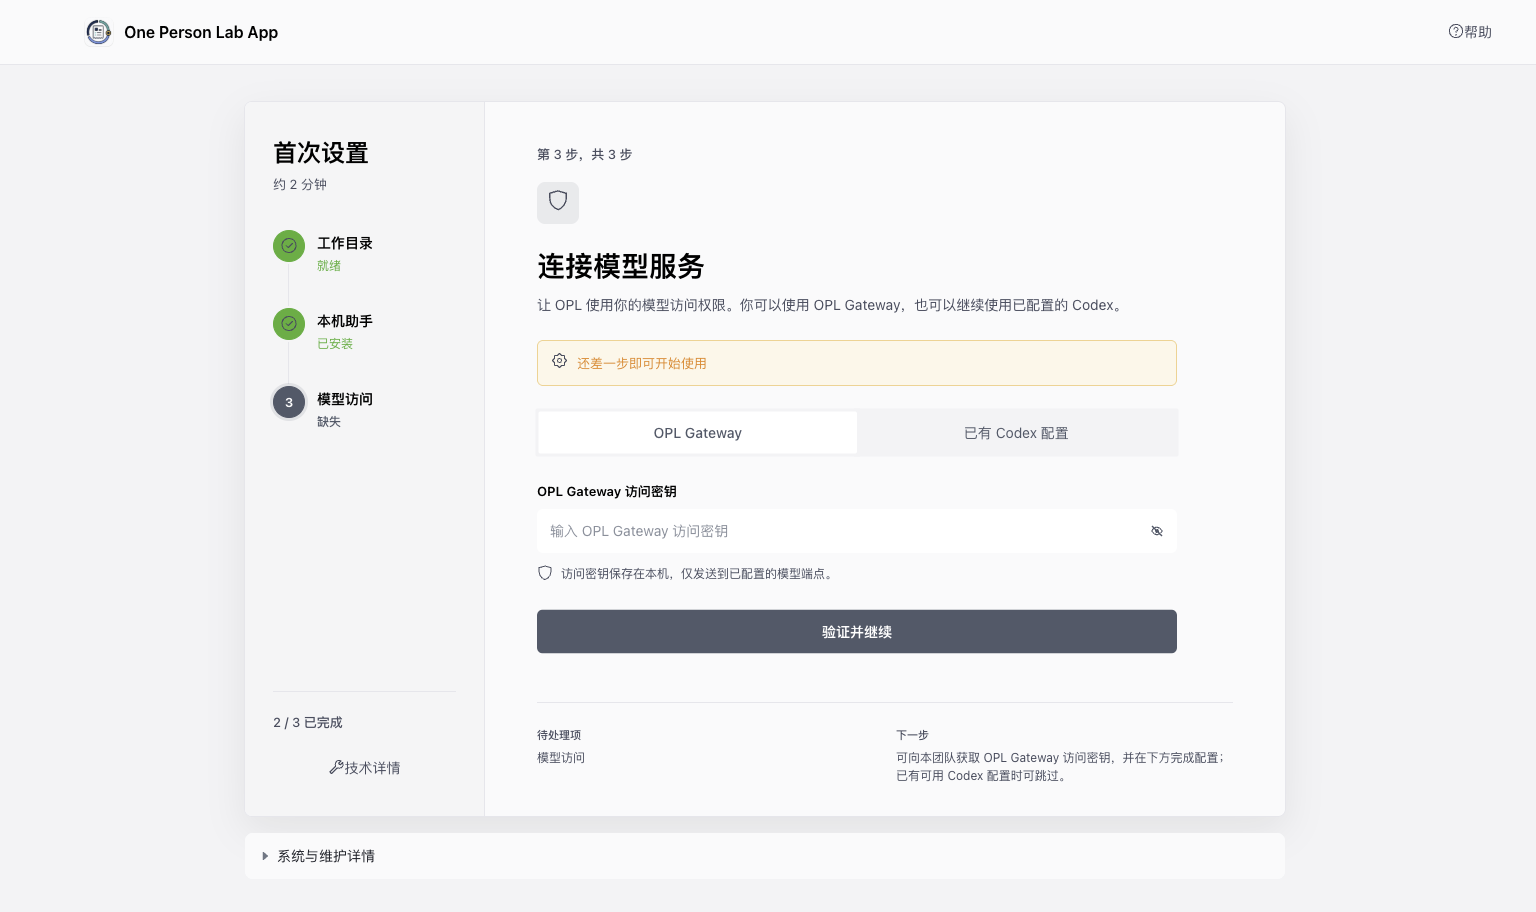
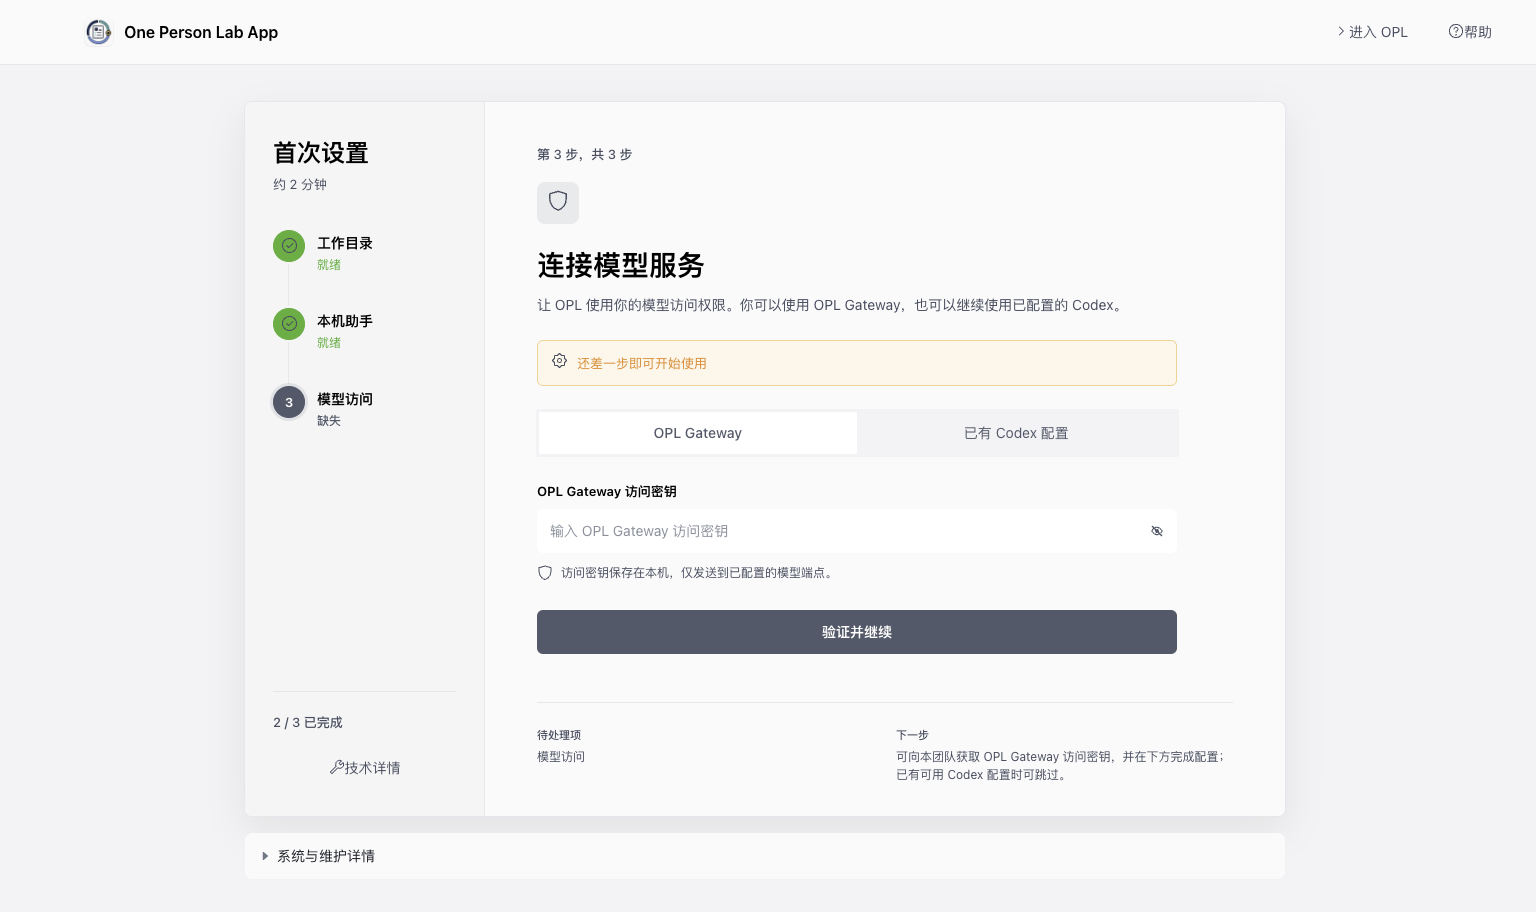
feat(first-run): make setup nonblocking

diff --git a/scripts/validate-active-shell/page-state-matrix-validator.ts b/scripts/validate-active-shell/page-state-matrix-validator.ts
@@ -74,8 +74,12 @@ export function validatePageStateMatrix(matrix, contract, guiProductContract) {
   if (!firstLaunchPage) {
     throw new Error('Page-state matrix is missing first_launch_readiness page');
   }
-  if (firstLaunchPage.launch_gate?.id !== 'ready_to_launch' || firstLaunchPage.launch_gate?.ui_order !== 'before_guid') {
-    throw new Error('First-launch readiness page must gate ready_to_launch before /guid');
+  if (
+    firstLaunchPage.launch_gate?.id !== 'ready_to_launch' ||
+    firstLaunchPage.launch_gate?.ui_order !== 'before_first_conversation_not_before_guid' ||
+    firstLaunchPage.launch_gate?.guid_navigation_blocking !== false
+  ) {
+    throw new Error('First-launch readiness page must gate first conversation without blocking /guid navigation');
   }
   if (firstLaunchPage.launch_gate?.full_readiness_blocks_ready_to_launch !== false) {
     throw new Error('First-launch readiness page must keep full readiness non-blocking for ready_to_launch');
@@ -114,7 +118,7 @@ export function validatePageStateMatrix(matrix, contract, guiProductContract) {
     'workspace root readiness',
     'Codex CLI readiness',
     'Codex model access readiness',
-    'ready_to_launch before /guid',
+    'ready_to_launch before first conversation, not before /guid',
     'full readiness and background maintenance state',
     'current initialization phase',
     'Core completed and total count',
@@ -127,7 +131,8 @@ export function validatePageStateMatrix(matrix, contract, guiProductContract) {
     'fixed three-step rail with one current task panel',
     'active rail step and task panel stay aligned to the first unready Core item',
     'authenticated standalone first-run route outside the ordinary product layout',
-    'startup preflight escape into first-run while readiness is unknown',
+    'startup preflight escape into /guid while readiness is unknown without mutating readiness',
+    'explicit enter OPL action before readiness without mutating readiness',
     'functional OPL Gateway and existing Codex access choices',
     'model access method switching and alternate actions disabled while a request is active',
     'pending state without premature ready or no-blocker claims',
@@ -153,7 +158,7 @@ export function validatePageStateMatrix(matrix, contract, guiProductContract) {
     'background maintenance counters or labels in the beginner primary area',
     'ordinary product navigation before the user enters /guid',
     'focusable or screen-reader-visible ordinary shell before the user enters /guid',
-    'startup preflight skip to /guid while readiness is unknown',
+    'navigation to /guid mutating or synthesizing ready_to_launch',
     'ordinary shortcut, tray, deep-link, or notification navigation mounted during first-run',
     'percentage progress as the dominant first-run signal',
     'simultaneous competing primary actions',

diff --git a/scripts/validate-active-shell/shell-first-run-validator.ts b/scripts/validate-active-shell/shell-first-run-validator.ts
@@ -43,10 +43,10 @@ export function validateFirstRunImplementation(shellPaths) {
   }
   const skipStartupCheck = startupGate.match(/const skipStartupCheck = \(\) => \{[\s\S]*?\n  \};/)?.[0] ?? '';
   if (
-    !skipStartupCheck.includes("navigate('/first-run', { replace: true })") ||
-    skipStartupCheck.includes("navigate('/guid'")
+    !skipStartupCheck.includes("navigate('/guid', { replace: true })") ||
+    skipStartupCheck.includes("navigate('/first-run'")
   ) {
-    throw new Error('Active shell StartupGate skip must enter FirstRun instead of bypassing unknown readiness');
+    throw new Error('Active shell StartupGate skip must enter /guid without mutating unknown readiness');
   }
   for (const expected of [
     'ipcBridge.oplRuntime.getInitialize.invoke()',
@@ -73,6 +73,15 @@ export function validateFirstRunImplementation(shellPaths) {
   if (firstRunPage.includes("ipcBridge.oplRuntime.getAppState.invoke({ profile: 'fast' })")) {
     throw new Error('Active shell FirstRun page must not auto-enter /guid from fast App state; use opl system initialize first-run setup_flow');
   }
+  const deferredEntry = firstRunPage.match(/\{!readyToLaunch && \([\s\S]*?data-testid='opl-first-run-enter-app'[\s\S]*?\)\}/)?.[0] ?? '';
+  if (
+    !deferredEntry.includes("onClick={() => navigate('/guid')}") ||
+    deferredEntry.includes('disabled=') ||
+    deferredEntry.includes('loading=') ||
+    deferredEntry.includes('POST_INSTALL_SELF_CHECK_STATE')
+  ) {
+    throw new Error('Active shell FirstRun must keep a pure, always-enabled /guid entry before readiness');
+  }
   for (const forbidden of [
     "shouldEnterGuidAutomatically",
     "navigate('/guid', { replace: true })",
@@ -81,7 +90,7 @@ export function validateFirstRunImplementation(shellPaths) {
   ]) {
     if (firstRunPage.includes(forbidden)) {
       throw new Error(
-        `Active shell FirstRun must remain in place until the user activates the ready entry: ${forbidden}`,
+        `Active shell FirstRun must not navigate automatically or bypass the explicit entry policies: ${forbidden}`,
       );
     }
   }
@@ -108,6 +117,13 @@ export function validateFirstRunImplementation(shellPaths) {
     if (!firstRunPage.includes(expected)) {
       throw new Error(`Active shell FirstRun focused task binding must include ${expected}`);
     }
+  }
+  const readyEntryButton = firstRunPage.match(/<Button\s+ref=\{readyEntryRef\}[\s\S]*?<\/Button>/)?.[0] ?? '';
+  if (
+    !readyEntryButton.includes("navigate('/guid', { state: POST_INSTALL_SELF_CHECK_STATE })") ||
+    readyEntryButton.includes('disabled=')
+  ) {
+    throw new Error('Active shell ready entry must stay enabled and preserve post-install self-check state');
   }
   for (const expected of [
     "setAttribute('inert', '')",

diff --git a/scripts/validate-active-shell/first-run-matrix-validator.ts b/scripts/validate-active-shell/first-run-matrix-validator.ts
@@ -48,8 +48,11 @@ function validateFullFirstInstallScenario(fullClean) {
   if (fullClean?.core_ready_source !== 'bundled_runtime') {
     throw new Error('Full first-install clean-machine scenario must reach Core ready from bundled_runtime');
   }
-  if (fullClean?.ready_to_launch_gate?.ui_order !== 'before_guid') {
-    throw new Error('Full first-install clean-machine scenario must gate ready_to_launch before /guid');
+  if (
+    fullClean?.ready_to_launch_gate?.ui_order !== 'before_first_conversation_not_before_guid' ||
+    fullClean?.ready_to_launch_gate?.guid_navigation_blocking !== false
+  ) {
+    throw new Error('Full first-install clean-machine scenario must gate first conversation without blocking /guid navigation');
   }
   if (fullClean?.ready_to_launch_gate?.blocks_on_full_readiness !== false) {
     throw new Error('Full first-install ready_to_launch must not block on full readiness');
@@ -184,14 +187,14 @@ export function validateFirstRunMatrix(matrix, contract) {
     'OPL Gateway access key entry uses beginner-facing 访问密钥 copy while existing usable Codex model access can skip first-launch Gateway setup',
     'first-run uses a focused full-window setup workspace and hides ordinary product navigation until the user enters /guid',
     'first-run renders as an authenticated standalone route outside the ordinary product layout',
-    'startup preflight skip enters focused first-run instead of /guid while readiness is unknown',
+    'startup preflight skip enters /guid while readiness is unknown without mutating readiness',
     'the three Core items render as a stable step rail while only the current task occupies the main panel',
     'the active rail step and task panel select the first unready Core item in fixed step order before completion',
     'Core progress uses completed step count without percentage progress',
     'model access offers functional OPL Gateway and existing Codex configuration paths without competing primary actions',
     'model access method switching and alternate actions remain disabled until the current request settles',
     'ready state replaces the current task in place and keeps one primary entry action',
-    'FirstRun never navigates automatically after initialize and only the ready entry action opens /guid',
+    'FirstRun never navigates automatically after initialize and explicit user entry can open /guid before or after readiness',
     'technical details stay inside FirstRun and do not expose ordinary Settings navigation',
     'all initialize, model access, and maintenance actions share one in-flight interaction lock',
     'initialize pending does not claim ready or no blockers before a payload returns',

diff --git a/scripts/app-product-profile/profile-contract.ts b/scripts/app-product-profile/profile-contract.ts
@@ -94,6 +94,12 @@ function assertFirstRunProfileShape(profile: AppProductProfile): void {
   assertStringArray(profile.first_run.readiness_layers, 'first_run.readiness_layers');
   assertStringArray(profile.first_run.ready_to_launch_gate.required_core_items, 'first_run.ready_to_launch_gate.required_core_items');
   assertStringArray(profile.first_run.ready_to_launch_gate.must_not_require, 'first_run.ready_to_launch_gate.must_not_require');
+  if (
+    profile.first_run.ready_to_launch_gate.ui_order !== 'before_first_conversation_not_before_guid' ||
+    profile.first_run.ready_to_launch_gate.guid_navigation_blocking !== false
+  ) {
+    throw new Error('App product profile ready_to_launch must gate first conversation without blocking /guid navigation');
+  }
   assertStringArray(profile.first_run.full_readiness_layers, 'first_run.full_readiness_layers');
   assertStringArray(profile.first_run.deferred_blockers, 'first_run.deferred_blockers');
   assertStringArray(profile.first_run.first_conversation.must_wait_for, 'first_run.first_conversation.must_wait_for');
@@ -103,7 +109,8 @@ function assertFirstRunProfileShape(profile: AppProductProfile): void {
   if (
     beginnerPresentation.layout_mode !== 'focused_setup_workspace' ||
     beginnerPresentation.ordinary_navigation_policy !== 'hidden_until_user_enters_guid' ||
-    beginnerPresentation.completion_navigation_policy !== 'manual_ready_entry_only_no_automatic_route_from_first_run' ||
+    beginnerPresentation.completion_navigation_policy !== 'manual_guid_entry_available_before_or_after_ready_no_automatic_route' ||
+    beginnerPresentation.defer_navigation_policy !== 'explicit_enter_guid_available_before_ready_without_mutating_readiness' ||
     beginnerPresentation.core_readiness_status_policy !== 'required_core_items_never_treat_disabled_as_ready' ||
     beginnerPresentation.minimum_window_primary_action_policy !== '400x600_keeps_current_primary_action_visible'
   ) {

diff --git a/scripts/validate-active-shell/gui-product-contract-validator.ts b/scripts/validate-active-shell/gui-product-contract-validator.ts
@@ -376,8 +376,12 @@ export function validateAppGuiProductContract(guiContract, releaseChannel, insta
     throw new Error('App GUI settings navigation refresh must use fast App state');
   }
   const firstLaunchPolicy = guiContract.first_launch_readiness_policy;
-  if (firstLaunchPolicy?.launch_gate !== 'ready_to_launch' || firstLaunchPolicy?.ui_order !== 'before_guid') {
-    throw new Error('App GUI first-launch readiness must gate ready_to_launch before /guid');
+  if (
+    firstLaunchPolicy?.launch_gate !== 'ready_to_launch' ||
+    firstLaunchPolicy?.ui_order !== 'before_first_conversation_not_before_guid' ||
+    firstLaunchPolicy?.guid_navigation_blocking !== false
+  ) {
+    throw new Error('App GUI first-launch readiness must gate first conversation without blocking /guid navigation');
   }
   for (const item of expectedFirstRunCoreItems) {
     if (!firstLaunchPolicy?.core_required_items?.includes(item)) {
@@ -424,7 +428,9 @@ export function validateAppGuiProductContract(guiContract, releaseChannel, insta
   );
   for (const [field, expected] of Object.entries({
     first_run_route_policy: 'authenticated_standalone_route_outside_ordinary_product_layout',
-    unknown_readiness_escape_policy: 'startup_skip_enters_first_run_never_guid',
+    unknown_readiness_escape_policy: 'startup_skip_enters_guid_without_mutating_readiness',
+    guid_navigation_blocked_by_readiness: false,
+    core_capability_use_blocked_when_prerequisites_fail: true,
   })) {
     if (firstLaunchPolicy?.startup_runtime_policy?.[field] !== expected) {
       throw new Error('App GUI first-launch startup runtime ' + field + ' must be ' + expected);

diff --git a/scripts/validate-active-shell/app-contract-constants.ts b/scripts/validate-active-shell/app-contract-constants.ts
@@ -251,6 +251,7 @@ export const beginnerFirstRunTestIds = [
   "opl-first-run-codex-api-key-input",
   "opl-first-run-configure-codex-button",
   "opl-first-run-recheck-existing",
+  "opl-first-run-enter-app",
   "opl-first-run-ready-entry",
   "opl-first-run-window-actions",
   "opl-first-run-step-workspace_root",
@@ -268,7 +269,8 @@ export const focusedFirstRunPresentationPolicy = {
   model_access_inflight_policy:
     "disable_method_switch_and_alternate_action_until_current_request_settles",
   completion_transition_policy: "replace_current_task_in_place",
-  completion_navigation_policy: "manual_ready_entry_only_no_automatic_route_from_first_run",
+  completion_navigation_policy: "manual_guid_entry_available_before_or_after_ready_no_automatic_route",
+  defer_navigation_policy: "explicit_enter_guid_available_before_ready_without_mutating_readiness",
   technical_detail_navigation_policy: "in_place_no_ordinary_settings_route_before_guid",
   request_exclusivity_policy: "single_inflight_initialize_or_action_across_first_run_controls",
   pending_state_policy: "no_ready_or_no_blocker_claim_before_initialize_payload",

diff --git a/scripts/validate-active-shell/product-profile-validator.ts b/scripts/validate-active-shell/product-profile-validator.ts
@@ -417,8 +417,12 @@ function validateFullFirstInstallCoreReadyPolicy(profile) {
 
 function validateReadyToLaunchGate(profile, firstRunCoreItems) {
   const launchGate = profile.first_run?.ready_to_launch_gate;
-  if (launchGate?.id !== 'ready_to_launch' || launchGate?.ui_order !== 'before_guid') {
-    throw new Error('Product profile ready_to_launch gate must run before /guid');
+  if (
+    launchGate?.id !== 'ready_to_launch' ||
+    launchGate?.ui_order !== 'before_first_conversation_not_before_guid' ||
+    launchGate?.guid_navigation_blocking !== false
+  ) {
+    throw new Error('Product profile ready_to_launch must gate first conversation without blocking /guid navigation');
   }
   for (const item of firstRunCoreItems) {
     if (!launchGate?.required_core_items?.includes(item)) {

diff --git a/scripts/validate-active-shell/shared-contract-validators.ts b/scripts/validate-active-shell/shared-contract-validators.ts
@@ -2069,8 +2069,8 @@ export function validateBeginnerFirstRunPresentation(presentation, label, expect
   if (presentation.presentation_mode !== "simplified_first_run") {
     throw new Error(`${label} must use simplified_first_run presentation`);
   }
-  if (presentation.primary_user_goal !== "complete_first_run_then_explicitly_enter_guid") {
-    throw new Error(`${label} must focus on reaching /guid with Codex ready`);
+  if (presentation.primary_user_goal !== "enter_guid_now_or_complete_guided_setup_first") {
+    throw new Error(`${label} must keep /guid explicitly available before readiness while preserving guided setup`);
   }
   assertIncludesAll(presentation.primary_steps, expectedCoreItems, `${label} primary steps`);
   for (const [field, expected] of Object.entries({

diff --git a/scripts/app-product-profile/types.ts b/scripts/app-product-profile/types.ts
@@ -266,6 +266,7 @@ export type AppProductProfile = {
     ready_to_launch_gate: {
       id: string;
       ui_order: string;
+      guid_navigation_blocking: boolean;
       required_core_items: string[];
       must_not_require: string[];
     };
@@ -316,6 +317,7 @@ export type AppProductProfile = {
       model_access_inflight_policy: string;
       completion_transition_policy: string;
       completion_navigation_policy: string;
+      defer_navigation_policy: string;
       technical_detail_navigation_policy: string;
       request_exclusivity_policy: string;
       pending_state_policy: string;

diff --git a/docs/product/gui/first-run-setup-workspace.md b/docs/product/gui/first-run-setup-workspace.md
@@ -14,8 +14,9 @@ focused tests 与用户路径截图。
 它能展示状态，但更像运行状态面板，不像面向首次使用者的设置流程。用户需要先解释多个重复信号，
 才能找到真正要完成的模型访问配置。
 
-2026-07-10 已批准的目标，是把首启改成一个专注的三步设置工作台。首启流程内始终隐藏普通产品导航；
-配置完成后先在原位显示完成态，只有用户主动点击“进入 OPL”才恢复正常 App shell 并进入 `/guid`。
+2026-07-10 已批准的目标，是把首启改成一个专注但不阻断的三步设置工作台。首启流程内隐藏普通产品导航，
+但检查中、需要操作和错误状态都保留显式“进入 OPL”动作；用户可以先进入 `/guid`，以后再继续设置。
+配置完成后仍在原位显示完成态，并由用户主动进入正常 App shell。
 
 ## 目标
 
@@ -24,7 +25,7 @@ focused tests 与用户路径截图。
 1. 当前是三步中的哪一步。
 2. 已经完成了什么。
 3. 现在只需要做什么。
-4. 完成后从哪里进入 OPL。
+4. 现在如何进入 OPL，或继续完成设置。
 
 页面必须保留真实启动 gate、阻塞原因、初始化阶段、后台维护和诊断能力，但技术信息默认折叠。
 
@@ -32,8 +33,8 @@ focused tests 与用户路径截图。
 
 - 使用全视口 `focused_setup_workspace`，覆盖普通 Titlebar、Sider 和会话历史区。
 - `/first-run` 是认证后的独立路由，不挂载普通 Layout，因此普通快捷键、托盘、deep link 和通知导航不会卸载首启。
-- StartupGate 在 readiness 未确认时只能进入 `/first-run`，不得通过“跳过检查”进入 `/guid`。
-- 顶部是精简品牌栏，只显示 One Person Lab 品牌与帮助入口。
+- StartupGate 在 readiness 未确认时默认进入 `/first-run`；用户点击“跳过检查”时直接进入 `/guid`，且不得修改 readiness。
+- 顶部是精简品牌栏，显示 One Person Lab 品牌、未就绪时始终可用的“进入 OPL”动作与帮助入口。
 - macOS 品牌栏保留 traffic lights 安全区；Windows/Linux 复用现有最小化、最大化和关闭按钮。
 - 主工作区最大宽度约 1040px，采用 `240px + 1fr` 两栏。
 - 左侧固定三步：工作目录、本机助手、模型访问。
@@ -62,7 +63,7 @@ focused tests 与用户路径截图。
 
 - 当前步骤显示明确的检查状态。
 - 右侧显示 initialize event 的用户可读标签和耗时。
-- 不显示伪精确百分比，不允许进入 OPL。
+- 不显示伪精确百分比；允许用户显式进入 OPL，但不得把该导航解释为 readiness 已成立。
 - initialize payload 返回前不得显示“没有待处理项”或“可以开始使用”。
 
 ### 需要操作
@@ -71,6 +72,7 @@ focused tests 与用户路径截图。
 - 多个 Core 项同时未就绪时，按固定三步顺序选择第一个未就绪项，rail active 状态与右侧任务必须一致。
 - 正文解释缺少什么、为什么需要、下一步是什么。
 - 错误靠近当前任务显示本地化文案；技术原文只放在技术详情，不进入 beginner toast。
+- “进入 OPL”保持可用，只导航到 `/guid`，不触发配置、App action 或维护命令。
 
 ### 验证中
 
@@ -85,11 +87,14 @@ focused tests 与用户路径截图。
 - initialize 结果不得自动跳转；只有用户点击完成态主操作才进入 `/guid`。
 - 进入 `/guid` 时继续携带 `postInstallSelfCheck` route state。
 
+未就绪时的“进入 OPL”属于 defer entry：它不携带 `postInstallSelfCheck`，不调用 initialize/configure/action/maintenance bridge，
+不修改或合成 `ready_to_launch`。`ready_to_launch` 继续约束首次会话发送和对应 Core 能力，不约束 App 主界面导航。
+
 ## 响应式与可访问性
 
 - 窄屏下步骤栏移动到任务面板上方，保持三步顺序和状态语义。
 - 输入框、分段控件和主按钮在手机宽度下改为单列，不产生横向滚动。
-- 在 App 允许的 400×600 最小窗口中，隐藏重复标题、完成计数、提示性图标和二级上下文，保留紧凑三步轨道、当前任务、必要输入与完整主操作；主按钮必须在首屏可见。
+- 在 App 允许的 400×600 最小窗口中，隐藏重复标题、完成计数、提示性图标和二级上下文，保留紧凑三步轨道、当前任务、必要输入与完整主操作；当前主操作和顶栏“进入 OPL”均不得被裁切或遮挡。
 - 状态必须同时使用图标和文本，不只依赖颜色。
 - 交互控件触控目标不小于 44px。
 - 所有交互使用 Arco 组件，保留键盘焦点与可见字段标签；可访问名称使用本地化可见文本或 `aria-labelledby`，不得使用 testid。
@@ -102,7 +107,7 @@ focused tests 与用户路径截图。
 
 - 不改变 `ready_to_launch` 语义和 Core required items。
 - required Core item 的 `disabled` 状态不得计为 ready；只有真实可用状态、非 blocking、计数和 blocking 集合一致时才接受 `ready_to_launch`。
-- 不让 full readiness 或后台维护阻塞进入 `/guid`。
+- 不让 Core readiness、full readiness、初始化读取或后台维护阻塞用户显式进入 `/guid`；未就绪能力可以在主界面中保持不可用或提示继续设置。
 - 不增加新的 runtime、provider 或配置真相源。
 - 不修改 AionUI 通用 Layout/Sider fork body；专注模式由 OPL FirstRun overlay 实现。
 - 不引入新 UI 依赖、插画、渐变、玻璃效果或营销式首屏。
@@ -113,6 +118,6 @@ focused tests 与用户路径截图。
 
 - App 合同和 page-state matrix 校验通过。
 - first-run test matrix 覆盖专注模式、三步栏、无百分比和两条访问路径。
-- active shell DOM 测试覆盖 initialize pending、Gateway 配置、已有 Codex 重检、完成态和技术详情。
+- active shell DOM 测试覆盖 initialize pending、Gateway 配置、已有 Codex 重检、完成态、技术详情，以及未就绪/后台请求期间始终可用的纯导航入口。
 - i18n、TypeScript 与 package build 通过。
 - 桌面、常规窄屏与 400×600 最小窗口截图证明普通导航不存在、文本无溢出、主操作清晰、状态切换不造成结构跳动。
